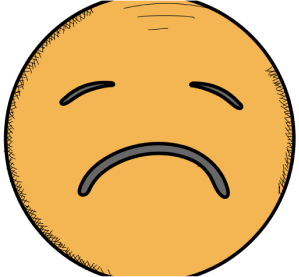
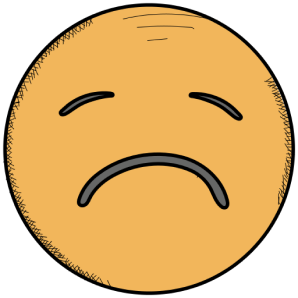
add adventure page

diff --git a/src/components/ui/pages/adventures/adventures.tsx b/src/components/ui/pages/adventures/adventures.tsx
@@ -1,25 +1,41 @@
-import React, { useEffect } from 'react';
-import { useAppDispatch, useAppSelector } from '@store';
-import { requestGetAdventure } from 'src/services/slices/adventures/actions';
-import { getCurrentAdventure } from 'src/services/slices/adventures/adventures.slice';
-import { requestLoginUser } from 'src/services/slices/user/actions';
-import { AdventureBookUI } from '../../adventure-book/adventure-book';
+import { FC, memo } from 'react';
+import { Link } from 'react-router-dom';
+import smile from '@assets/images/sadFace.png';
+import { AdventuresUIProps } from './type';
+import styles from './adventures.module.scss';
+import { Select } from '../../select';
+import { AdventureBookUI } from '../../adventure-book';
 
-export const AdventuresUI: React.FC = () => {
-	const dispatch = useAppDispatch();
-
-	useEffect(() => {
-		dispatch(
-			requestLoginUser({
-				email: 'anpast2018@gmail.com',
-				password: '1234567890',
-			})
-		);
-		dispatch(requestGetAdventure('8ce57dde-1893-4ee6-b21b-fdafc467fc57'));
-	}, [dispatch]);
-
-	const adventure = useAppSelector(getCurrentAdventure);
-
-	if (!adventure) return null;
-	return <AdventureBookUI adventure={adventure} onClick={() => {}} />;
-};
+export const AdventuresUI: FC<AdventuresUIProps> = memo(
+	({ adventures, onFilterChange, options }) => (
+		<div className={styles.content}>
+			<div className={styles.content__buttonContainer}>
+				<Link to="/create-adventure" className={styles.content__createButton}>
+					Создать
+				</Link>
+				<Select
+					options={options}
+					onChange={onFilterChange}
+					placeholder="Фильтровать"
+					classNameProp={styles.content__select}
+				/>
+			</div>
+			{adventures ? (
+				<div className={`${styles.content__adventures}`}>
+					{adventures.map((adventure) => (
+						<AdventureBookUI adventure={adventure} key={adventure.id} />
+					))}
+				</div>
+			) : (
+				<div className={styles.content__noAdventures}>
+					<img
+						className={styles.content__image}
+						src={smile}
+						alt="Мы не нашли приключений по вашему запросу"
+					/>
+					<div className={styles.content__title}>Мы не нашли приключений по вашему запросу</div>
+				</div>
+			)}
+		</div>
+	)
+);

diff --git a/src/pages/adventures/adventures.tsx b/src/pages/adventures/adventures.tsx
@@ -1,7 +1,59 @@
-import React from 'react';
+import { FC, useEffect, useState } from 'react';
 
 import { AdventuresUI } from '@ui-pages';
+import { useAppDispatch, useAppSelector } from '@store';
+import { getAdventures, getUserState, isAdventuresLoading, requestUserAdventures } from '@slices';
+import { Preloader } from '@ui';
+import { TOption } from 'src/components/ui/select/types';
 
-export const Adventures: React.FC = () => {
-	return <AdventuresUI />;
+const selectOptions = [
+	{ label: 'Все', value: 'all' },
+	{ label: 'Создатель', value: 'GM' },
+	{ label: 'Игрок', value: 'player' },
+];
+
+export const Adventures: FC = () => {
+	const dispatch = useAppDispatch();
+	const isLoading = useAppSelector(isAdventuresLoading);
+	const adventures = useAppSelector(getAdventures);
+	const userId = useAppSelector(getUserState).user?.id;
+
+	const [filterOption, setFilterOption] = useState('all');
+
+	const filterAdventures = () => {
+		if (filterOption === 'all') {
+			return adventures;
+		}
+		if (filterOption === 'GM') {
+			return adventures ? adventures.filter((n) => n.owner.id === userId) : null;
+		}
+		if (filterOption === 'player') {
+			return adventures ? adventures.filter((n) => n.owner.id !== userId) : null;
+		}
+		return null;
+	};
+
+	const showedAdventures = filterAdventures();
+
+	const onFilterChange = (option: TOption | null) => {
+		if (option) {
+			setFilterOption(option.value);
+		}
+	};
+
+	useEffect(() => {
+		dispatch(requestUserAdventures());
+	}, [dispatch]);
+
+	if (isLoading) {
+		return <Preloader title="Посидите у костра, ваши приключения загружаются" />;
+	}
+
+	return (
+		<AdventuresUI
+			adventures={showedAdventures}
+			onFilterChange={onFilterChange}
+			options={selectOptions}
+		/>
+	);
 };

diff --git a/src/components/ui/adventure-book/adventure-book.tsx b/src/components/ui/adventure-book/adventure-book.tsx
@@ -1,14 +1,14 @@
 import clsx from 'clsx';
 import { FC, useState } from 'react';
+import { Link } from 'react-router-dom';
 import { ReactComponent as Frame } from '@assets/images/linesAdventure.svg';
 import baseAdventure from '@assets/images/baseAdventure.png';
 
 import { Button } from '../button';
-
 import { AdventureBookUIProps } from './type';
 import styles from './adventure-book.module.scss';
 
-export const AdventureBookUI: FC<AdventureBookUIProps> = ({ adventure, onClick }) => {
+export const AdventureBookUI: FC<AdventureBookUIProps> = ({ adventure }) => {
 	const [pageState, setPageState] = useState(1);
 
 	return (
@@ -50,9 +50,9 @@ export const AdventureBookUI: FC<AdventureBookUIProps> = ({ adventure, onClick }
 								<div className={styles.content__title}>{adventure.name}</div>
 								<div className={styles.content__subtitle}>Мастер: {adventure.owner.name}</div>
 								<div className={styles.content__buttonContainer}>
-									<Button className={clsx(styles.content__button)} onClick={onClick}>
+									<Link to={`/${adventure.id}`} className={styles.content__button}>
 										В приключение
-									</Button>
+									</Link>
 									<Button className={clsx(styles.content__button)} onClick={() => setPageState(2)}>
 										Подробнее
 									</Button>
@@ -74,9 +74,9 @@ export const AdventureBookUI: FC<AdventureBookUIProps> = ({ adventure, onClick }
 									>
 										Назад
 									</Button>
-									<Button className={clsx(styles.content__button)} onClick={onClick}>
+									<Link to={`/${adventure.id}`} className={styles.content__button}>
 										В приключение
-									</Button>
+									</Link>
 								</div>
 							</div>
 						</div>

diff --git a/src/services/slices/adventures/adventures.slice.ts b/src/services/slices/adventures/adventures.slice.ts
@@ -17,7 +17,7 @@ export interface AdventuresState {
 	error: string | null;
 }
 
-export const initialState: AdventuresState = {
+const initialState: AdventuresState = {
 	isLoading: false,
 	adventures: null,
 	currentAdventure: null,
@@ -30,6 +30,7 @@ export const adventuresSlice = createSlice({
 	initialState,
 	reducers: {},
 	selectors: {
+		isAdventuresLoading: (sliceState) => sliceState.isLoading,
 		getAdventures: (sliceState) => sliceState.adventures,
 		getCurrentAdventure: (sliceState) => sliceState.currentAdventure,
 		getCreatedAdventure: (sliceState) => sliceState.createdAdventure,
@@ -47,9 +48,9 @@ export const adventuresSlice = createSlice({
 				state.adventures = null;
 			})
 			.addCase(requestUserAdventures.fulfilled, (state, { payload }) => {
-				state.isLoading = false;
 				state.error = null;
 				state.adventures = payload.adventures ? payload.adventures : null;
+				state.isLoading = false;
 			})
 			.addCase(requestCreateAdventure.pending, (state) => {
 				state.isLoading = true;
@@ -119,6 +120,7 @@ export const adventuresSlice = createSlice({
 
 export { initialState as adventuresInitialState };
 
-export const { getCurrentAdventure, getAdventures } = adventuresSlice.selectors;
+export const { getCurrentAdventure, getAdventures, isAdventuresLoading } =
+	adventuresSlice.selectors;
 
 export default adventuresSlice.reducer;

diff --git a/src/components/ui/pages/adventures/adventures.module.scss b/src/components/ui/pages/adventures/adventures.module.scss
@@ -1,0 +1,70 @@
+.content {
+	--border-radius: 16px;
+	--box-shadow: 0px 4px 4px 0px rgba(0, 0, 0, 0.5);
+	--control-height: 40px;
+	--font-family: var(--metrika);
+	--font-size: 16px;
+
+	min-height: 70%;
+
+	&__adventures {
+		margin-top: 50px;
+		display: flex;
+		flex-direction: column-reverse;
+		align-items: center;
+		justify-content: center;
+		gap: 40px;
+		background-color: var(--color-bg);
+	}
+
+	&__buttonContainer {
+		position: relative;
+		z-index: 100;
+		display: flex;
+		flex-direction: row;
+		justify-content: space-around;
+		width: 100%;
+		margin-top: 30px;
+	}
+
+	&__select {
+		width: 200px;
+	}
+
+	&__createButton {
+		display: flex;
+		justify-content: center;
+		align-items: center;
+		width: 200px;
+		height: var(--control-height);
+		background: var(--gradient-input);
+		border-radius: var(--border-radius);
+		box-shadow: var(--box-shadow);
+		font-family: var(--font-family);
+		font-size: var(--font-size);
+		color: var(--color-text-input);
+	}
+
+	&__noAdventures {
+		display: flex;
+		flex-direction: column;
+		justify-content: center;
+		align-items: center;
+		height: 100%;
+		gap: 30px;
+	}
+
+	&__image {
+		width: 298px;
+		aspect-ratio: 1/1;
+	}
+
+	&__title {
+		font-size: 24px;
+		font-family: var(--amagro);
+		padding: 20px 0;
+		margin: 0;
+		text-align: center;
+		width: 450px;
+	}
+}

diff --git a/src/utils/types.ts b/src/utils/types.ts
@@ -371,10 +371,17 @@ export enum OauthType {
 /** PlayerDTO */
 export interface PlayerDTO {
 	/**
-	 * Id пользователя
+	 * Id связки в базе: пользователь-приключение
 	 * @format uuid4
 	 */
 	id: string;
+	/**
+	 * Id приключения
+	 * @format uuid4
+	 */
+	adventure_id: string;
+	/** Пользователь */
+	user: UserDTO;
 	/** Персонажи игрока */
 	heroes: HeroDTO[];
 }

diff --git a/src/index.css b/src/index.css
@@ -61,12 +61,10 @@
 	);
 	--gradient-input: linear-gradient(
 		to right,
-		rgba(208, 167, 116, 0.75) 9%,
-		rgba(238, 196, 145, 0.6) 23%,
-		rgba(253, 208, 154, 0.6) 38%,
-		rgba(253, 208, 154, 0.6) 61%,
-		rgba(253, 208, 154, 0.6) 78%,
-		rgba(208, 167, 116, 0.75) 93%
+		rgba(204, 170, 129) 9%,
+		rgba(224, 188, 146) 35%,
+		rgba(224, 188, 146) 64%,
+		rgba(204, 170, 129) 93%
 	);
 
 	--gradient-input-grey: linear-gradient(

diff --git a/src/components/ui/adventure-book/adventure-book.module.scss b/src/components/ui/adventure-book/adventure-book.module.scss
@@ -29,6 +29,7 @@
 	background-repeat: no-repeat;
 	height: 575px;
 	width: 900px;
+	z-index: 50;
 
 	&__pagesContainer {
 		height: 100%;
@@ -62,11 +63,11 @@
 			margin-left: 50%;
 			transform: scaleX(-1);
 			left: 0;
-			z-index: 0;
+			z-index: 51;
 		}
 	}
 	&__duplex {
-		z-index: 100;
+		z-index: 52;
 		position: relative;
 		transform-style: preserve-3d;
 		padding: 0;

diff --git a/src/components/ui/pages/adventures/type.ts b/src/components/ui/pages/adventures/type.ts
@@ -1,0 +1,8 @@
+import { AdventureDTO } from '@utils-types';
+import { TOption } from '../../select/types';
+
+export type AdventuresUIProps = {
+	adventures: AdventureDTO[] | null;
+	onFilterChange: (option: TOption | null) => void;
+	options: TOption[];
+};

diff --git a/src/services/slices/threads/threads.slice.ts b/src/services/slices/threads/threads.slice.ts
@@ -17,7 +17,7 @@ export interface ThreadsState {
 	error: string | null;
 }
 
-export const initialState: ThreadsState = {
+const initialState: ThreadsState = {
 	isLoading: false,
 	threads: null,
 	currentThread: null,

diff --git a/src/services/slices/players/players.slice.ts b/src/services/slices/players/players.slice.ts
@@ -15,7 +15,7 @@ export interface PlayersState {
 	error: string | null;
 }
 
-export const initialState: PlayersState = {
+const initialState: PlayersState = {
 	isLoading: false,
 	players: null,
 	invitedUser: null,

diff --git a/src/services/slices/comments/comments.slice.ts b/src/services/slices/comments/comments.slice.ts
@@ -14,7 +14,7 @@ export interface CommentsState {
 	error: string | null;
 }
 
-export const initialState: CommentsState = {
+const initialState: CommentsState = {
 	isLoading: false,
 	comments: null,
 	error: null,
